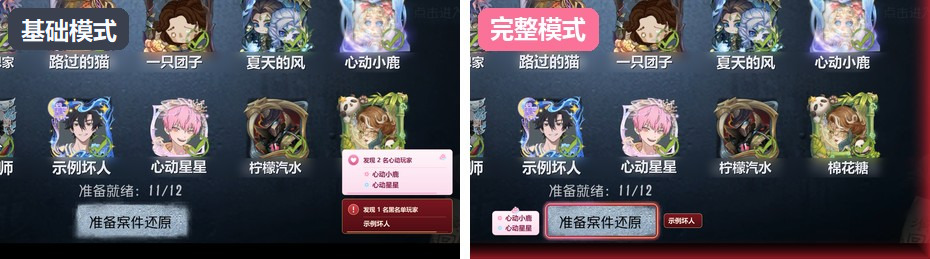
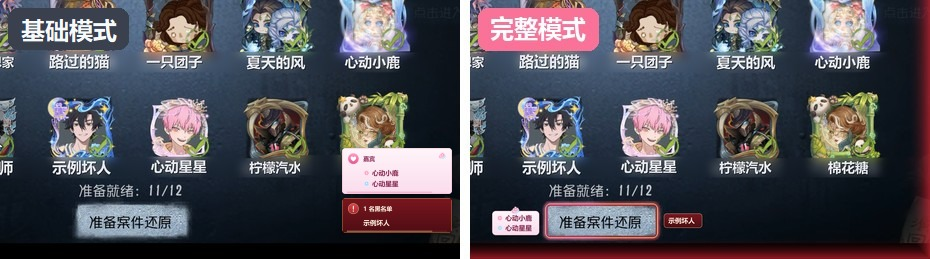
显示's guide pictures show today's corner notice: 嘉宾 and 1 名黑名单 / 未发现黑名单 instead of the old 心动 wording.

Changed region(s): [[0.343, 0.4633, 0.4989, 0.9266], [0.0312, 0.0618, 0.1247, 0.1544]]

diff --git a/build/display_diff.py b/build/display_diff.py
@@ -1,0 +1,129 @@
+"""Re-makes the 基础模式 halves of 显示's guide pictures (assets/display-diff-1.jpg and -2.jpg) with the corner
+notice the app shows today, drawn by its own _Card.
+
+Each picture is two halves of the same lobby, 基础模式 left and 完整模式 right, 10 px apart. Only the corner cards
+on the left change: the lobby under the old cards comes back from assets/sample-lobby.jpg (the halves are a crop of
+it, scaled), and the new cards go in the same corner at the same scale. The 完整模式 half stays as it is.
+
+    .venv/Scripts/python.exe build/display_diff.py
+
+Runs in a data folder of its own and opens no window; look at both pictures at full size before committing them.
+"""
+
+from __future__ import annotations
+
+import os
+import sys
+import tempfile
+from pathlib import Path
+
+import cv2
+import numpy as np
+
+ROOT = Path(__file__).resolve().parents[1]
+sys.path.insert(0, str(ROOT))
+os.environ["APPDATA"] = tempfile.mkdtemp(prefix="display-diff-")
+
+from PySide6.QtCore import QRectF, Qt  # noqa: E402
+from PySide6.QtGui import QColor, QImage, QPainter, QPainterPath  # noqa: E402
+from PySide6.QtWidgets import QApplication  # noqa: E402
+
+from blacklist_detect.ui_notice import _GAP, _WIDTH, _Card, result_messages  # noqa: E402
+from blacklist_detect.ui_theme import use_theme  # noqa: E402
+
+ASSETS = ROOT / "blacklist_detect" / "assets"
+# Where the 基础模式 half sits in sample-lobby.jpg: the lobby scaled by LOBBY_SCALE, then cut from LOBBY_AT.
+LOBBY_SCALE = 0.216
+LOBBY_AT = (247, 123)
+HALF_WIDTH = 460
+# The lobby under the cards that comes back, in the picture: left, top, right, bottom (exclusive).
+PATCH = (300, 120, HALF_WIDTH - 1, 243)
+# The cards' corner in the picture (right and bottom edges) and their scale, a logical px to a picture px,
+# as the cards were shot before.
+CORNER = (452, 233)
+CARD_SCALE = 0.367
+# Cards are drawn this many times larger, then brought down, so their words stay sharp.
+SUPERSAMPLE = 4
+# Windows 11 rounds the card window by 8 px.
+RADIUS = 8
+SHOWN = 0.85
+PICTURES = {
+    "display-diff-1.jpg": ([("示例坏人", ())], ["心动小鹿", "心动星星"]),
+    "display-diff-2.jpg": ([], ["心动小鹿", "心动星星"]),
+}
+
+
+def card_pictures(hits: list[tuple[str, tuple[str, ...]]], likes: list[str]) -> list[np.ndarray]:
+    """The cards for one result, the bottom one first, as BGRA at the picture's scale with Windows 11's corners."""
+    messages = result_messages(hits, likes, 0)
+    cards = [_Card() for _message in messages]
+    for card, message in zip(cards, messages, strict=True):
+        card.set_message(message)
+        card.left = SHOWN
+    width = min(max(max(card.natural_width() for card in cards), _WIDTH[0]), _WIDTH[1])
+    shown = []
+    for card in cards:
+        card.fit(width)
+        size = card.size()
+        image = QImage(size.width() * SUPERSAMPLE, size.height() * SUPERSAMPLE, QImage.Format_ARGB32_Premultiplied)
+        image.setDevicePixelRatio(SUPERSAMPLE)
+        image.fill(Qt.transparent)
+        card.render(image)
+        # Clip to the rounded window.
+        corners = QImage(image.size(), QImage.Format_ARGB32_Premultiplied)
+        corners.setDevicePixelRatio(SUPERSAMPLE)
+        corners.fill(Qt.transparent)
+        painter = QPainter(corners)
+        painter.setRenderHint(QPainter.Antialiasing)
+        path = QPainterPath()
+        path.addRoundedRect(QRectF(0, 0, size.width(), size.height()), RADIUS, RADIUS)
+        painter.fillPath(path, QColor("#ffffff"))
+        painter.setCompositionMode(QPainter.CompositionMode_SourceIn)
+        painter.drawImage(0, 0, image)
+        painter.end()
+        corners = corners.convertToFormat(QImage.Format_ARGB32)
+        pixels = np.frombuffer(corners.constBits(), np.uint8).reshape(corners.height(), corners.width(), 4).copy()
+        small = (round(size.width() * CARD_SCALE), round(size.height() * CARD_SCALE))
+        shown.append(cv2.resize(pixels, small, interpolation=cv2.INTER_AREA))
+        card.deleteLater()
+    return shown
+
+
+def put(picture: np.ndarray, card: np.ndarray, left: int, top: int) -> None:
+    """Lay a BGRA card over the picture, with the soft shadow Windows gives a window."""
+    height, width = card.shape[:2]
+    alpha = card[:, :, 3:4].astype(np.float32) / 255
+    shadow = np.zeros(picture.shape[:2], np.float32)
+    shadow[top + 1 : top + 1 + height, left : left + width] = alpha[:, :, 0]
+    shadow = cv2.GaussianBlur(shadow, (0, 0), 1.5)[:, :, None] * 0.45
+    picture[:] = (picture.astype(np.float32) * (1 - shadow)).astype(np.uint8)
+    area = picture[top : top + height, left : left + width].astype(np.float32)
+    # The card's pixels are straight (not premultiplied) after convertToFormat.
+    mixed = card[:, :, :3].astype(np.float32) * alpha + area * (1 - alpha)
+    picture[top : top + height, left : left + width] = mixed.round().astype(np.uint8)
+
+
+def main() -> None:
+    QApplication.instance() or QApplication([])
+    use_theme("蓝色", "light")
+    lobby = cv2.imread(str(ASSETS / "sample-lobby.jpg"))
+    lobby = cv2.resize(lobby, None, fx=LOBBY_SCALE, fy=LOBBY_SCALE, interpolation=cv2.INTER_AREA)
+    left, top, right, bottom = PATCH
+    for name, (hits, likes) in PICTURES.items():
+        path = ASSETS / name
+        picture = cv2.imread(str(path))
+        x, y = LOBBY_AT
+        picture[top:bottom, left:right] = lobby[y + top : y + bottom, x + left : x + right]
+        place = CORNER[1]
+        gap = round(_GAP * CARD_SCALE)
+        for card in card_pictures(hits, likes):
+            height, width = card.shape[:2]
+            place -= height
+            put(picture[:, :HALF_WIDTH], card, CORNER[0] - width, place)
+            place -= gap
+        cv2.imwrite(str(path), picture, [cv2.IMWRITE_JPEG_QUALITY, 92])
+        print(f"{name}: {picture.shape[1]}x{picture.shape[0]}")
+
+
+if __name__ == "__main__":
+    main()
